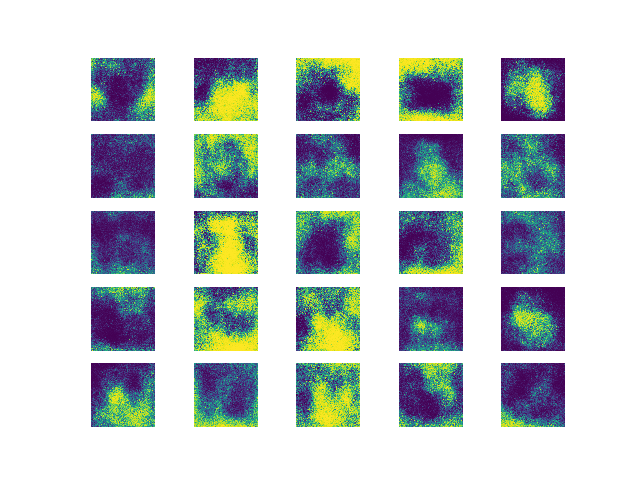
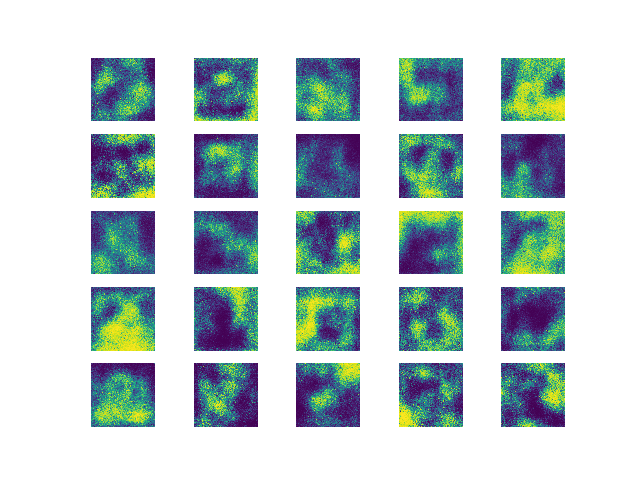
back to some dl

diff --git a/deep_dream/deep_dream.py b/deep_dream/deep_dream.py
@@ -17,14 +17,6 @@ import argparse
 
 from keras.applications import inception_v3
 from keras import backend as K
-import ssl
-
-try:
-    _create_unverified_https_context = ssl._create_unverified_context
-except AttributeError:
-    pass
-else:
-    ssl._create_default_https_context = _create_unverified_https_context
 
 parser = argparse.ArgumentParser(description='Deep Dreams with Keras.')
 parser.add_argument('base_image_path', metavar='base', type=str,
@@ -43,10 +35,10 @@ result_prefix = args.result_prefix
 # You can tweak these setting to obtain new visual effects.
 settings = {
     'features': {
-        'mixed2': 0.4,
-        'mixed3': 0.1,
-        'mixed4': 2.5,
-        'mixed5': 1,
+        'mixed2': 0.2,
+        'mixed3': 0.5,
+        'mixed4': 2.,
+        'mixed5': 1.5,
     },
 }
 
@@ -163,8 +155,8 @@ and compare the result to the (resized) original image.
 step = 0.01  # Gradient ascent step size
 num_octave = 3  # Number of scales at which to run gradient ascent
 octave_scale = 1.4  # Size ratio between scales
-iterations = 40  # Number of ascent steps per scale
-max_loss = 10.0
+iterations = 1  # Number of ascent steps per scale
+max_loss = 10.
 
 img = preprocess_image(base_image_path)
 if K.image_data_format() == 'channels_first':

diff --git a/gan/style_transfer.py b/gan/style_transfer.py
@@ -64,7 +64,7 @@ def get_style_loss(ws, Gs, As):
 		N_l = kb.int_shape(G)[0]
 		G_gram = get_Gram_matrix(G)
 		A_gram = get_Gram_matrix(A)
-		sLoss = sLos + (w * 0.25 * kb.sum(kb.square(G_gram - A_gram)) / (N_l**2 * M_l**2))
+		sLoss = sLoss + (w * 0.25 * kb.sum(kb.square(G_gram - A_gram)) / (N_l**2 * M_l**2))
 	return sLoss
 
 def get_total_loss(seedPlaceholder, alpha=1.0, beta=10000.0):
@@ -108,7 +108,7 @@ P = get_feature_reps(x=inArray, layer_names=[cLayerName], model=cModel)[0]
 As = get_feature_reps(x=textureArray, layer_names=sLayerNames, model=sModel)
 ws = np.ones(len(sLayerNames))/float(len(sLayerNames))
 
-iterations = 600
+iterations = 10
 x_val = seedImage.flatten()
 xopt, f_val, info= fmin_l_bfgs_b(calculate_loss, x_val, fprime=get_grad,
 							maxiter=iterations, disp=True)

diff --git a/gan/sample_gan.py b/gan/sample_gan.py
@@ -174,7 +174,7 @@ class GAN():
 
 if __name__ == '__main__':
     gan = GAN()
-    gan.train(epochs=4000, batch_size=32, save_interval=500)
+    gan.train(epochs=40000, batch_size=128, save_interval=500)
 
 
 
